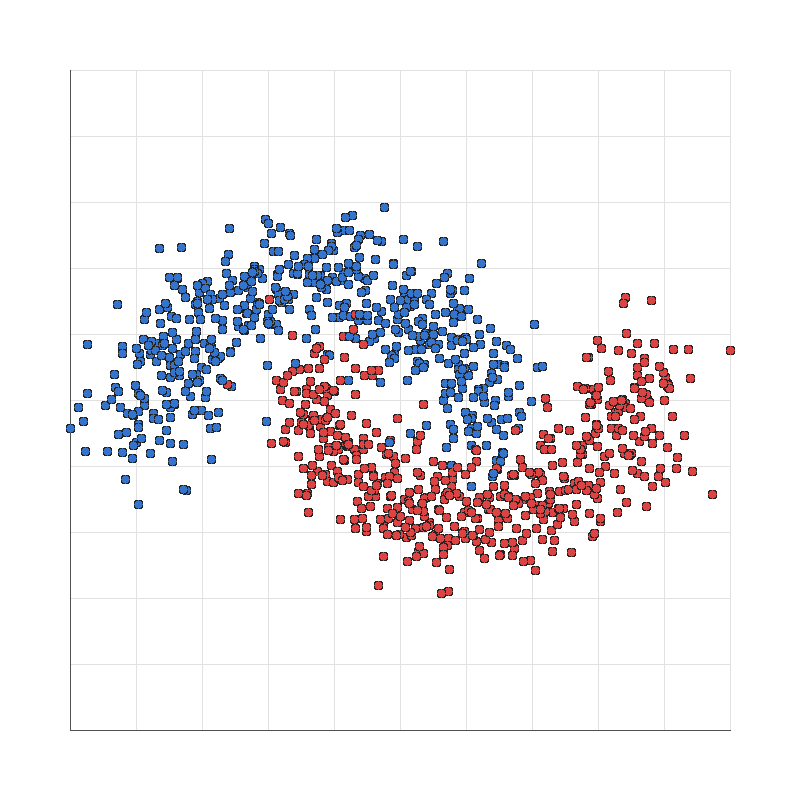
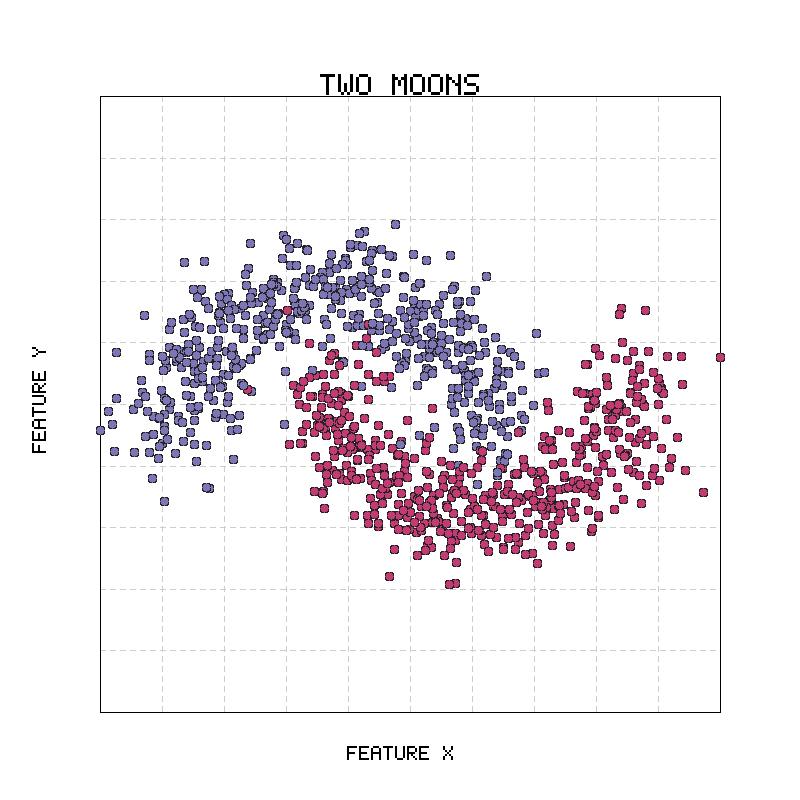
Align two moons plot styling

diff --git a/problems/medium/generate_two_moons.py b/problems/medium/generate_two_moons.py
@@ -82,9 +82,72 @@ def write_png(path, pixels, width, height):
     path.write_bytes(data)
 
 
+FONT = {
+    " ": ["00000", "00000", "00000", "00000", "00000", "00000", "00000"],
+    "-": ["00000", "00000", "00000", "11110", "00000", "00000", "00000"],
+    ".": ["00000", "00000", "00000", "00000", "00000", "01100", "01100"],
+    "0": ["01110", "10001", "10011", "10101", "11001", "10001", "01110"],
+    "1": ["00100", "01100", "00100", "00100", "00100", "00100", "01110"],
+    "2": ["01110", "10001", "00001", "00010", "00100", "01000", "11111"],
+    "3": ["11110", "00001", "00001", "01110", "00001", "00001", "11110"],
+    "4": ["00010", "00110", "01010", "10010", "11111", "00010", "00010"],
+    "5": ["11111", "10000", "10000", "11110", "00001", "00001", "11110"],
+    "6": ["01110", "10000", "10000", "11110", "10001", "10001", "01110"],
+    "7": ["11111", "00001", "00010", "00100", "01000", "01000", "01000"],
+    "8": ["01110", "10001", "10001", "01110", "10001", "10001", "01110"],
+    "9": ["01110", "10001", "10001", "01111", "00001", "00001", "01110"],
+    "A": ["01110", "10001", "10001", "11111", "10001", "10001", "10001"],
+    "C": ["01110", "10001", "10000", "10000", "10000", "10001", "01110"],
+    "E": ["11111", "10000", "10000", "11110", "10000", "10000", "11111"],
+    "F": ["11111", "10000", "10000", "11110", "10000", "10000", "10000"],
+    "M": ["10001", "11011", "10101", "10101", "10001", "10001", "10001"],
+    "N": ["10001", "11001", "10101", "10011", "10001", "10001", "10001"],
+    "O": ["01110", "10001", "10001", "10001", "10001", "10001", "01110"],
+    "R": ["11110", "10001", "10001", "11110", "10100", "10010", "10001"],
+    "S": ["01111", "10000", "10000", "01110", "00001", "00001", "11110"],
+    "T": ["11111", "00100", "00100", "00100", "00100", "00100", "00100"],
+    "U": ["10001", "10001", "10001", "10001", "10001", "10001", "01110"],
+    "W": ["10001", "10001", "10001", "10101", "10101", "10101", "01010"],
+    "X": ["10001", "10001", "01010", "00100", "01010", "10001", "10001"],
+    "Y": ["10001", "10001", "01010", "00100", "00100", "00100", "00100"],
+}
+
+
+def text_width(text, scale):
+    return max(0, (len(text) * 6 - 1) * scale)
+
+
 def save_plot(path, points, width=800, height=800):
+    try:
+        import matplotlib.pyplot as plt
+    except ModuleNotFoundError:
+        save_basic_plot(path, points, width, height)
+        return
+
+    plt.figure(figsize=(8, 8))
+    plt.scatter(
+        [point[0] for point in points],
+        [point[1] for point in points],
+        c=[point[2] for point in points],
+        cmap="Spectral",
+        edgecolors="k",
+        alpha=0.7,
+    )
+    plt.title("Two Moons")
+    plt.xlabel("Feature X")
+    plt.ylabel("Feature Y")
+    plt.axis("equal")
+    plt.grid(True, linestyle="--", alpha=0.6)
+    plt.savefig(path)
+    plt.close()
+
+
+def save_basic_plot(path, points, width=800, height=800):
     pixels = bytearray([255, 255, 255] * width * height)
-    padding = 70
+    left = 100
+    right = 80
+    top = 96
+    bottom = 88
     xs = [point[0] for point in points]
     ys = [point[1] for point in points]
     min_x, max_x = min(xs), max(xs)
@@ -94,11 +157,46 @@ def save_plot(path, points, width=800, height=800):
     cy = (min_y + max_y) / 2
     min_x, max_x = cx - span / 2, cx + span / 2
     min_y, max_y = cy - span / 2, cy + span / 2
+    plot_width = width - left - right
+    plot_height = height - top - bottom
 
     def set_pixel(px, py, color):
         if 0 <= px < width and 0 <= py < height:
             offset = (py * width + px) * 3
             pixels[offset : offset + 3] = bytes(color)
+
+    def draw_text(x, y, text, color=(0, 0, 0), scale=2):
+        cursor_x = x
+        for char in text.upper():
+            pattern = FONT.get(char, FONT[" "])
+            for row_index, row in enumerate(pattern):
+                for col_index, value in enumerate(row):
+                    if value == "1":
+                        for sy in range(scale):
+                            for sx in range(scale):
+                                set_pixel(
+                                    cursor_x + col_index * scale + sx,
+                                    y + row_index * scale + sy,
+                                    color,
+                                )
+            cursor_x += 6 * scale
+
+    def draw_text_rotated_left(x, y, text, color=(0, 0, 0), scale=2):
+        total_width = text_width(text, scale)
+        cursor_units = 0
+        for char in text.upper():
+            pattern = FONT.get(char, FONT[" "])
+            for row_index, row in enumerate(pattern):
+                for col_index, value in enumerate(row):
+                    if value == "1":
+                        unit_x = cursor_units + col_index
+                        unit_y = row_index
+                        for sy in range(scale):
+                            for sx in range(scale):
+                                source_x = unit_x * scale + sx
+                                source_y = unit_y * scale + sy
+                                set_pixel(x + source_y, y + total_width - 1 - source_x, color)
+            cursor_units += 6
 
     def draw_line(x1, y1, x2, y2, color):
         dx = abs(x2 - x1)
@@ -119,21 +217,44 @@ def save_plot(path, points, width=800, height=800):
                 err += dx
                 y1 += sy
 
+    def draw_dashed_line(x1, y1, x2, y2, color, dash=6, gap=4):
+        dx = x2 - x1
+        dy = y2 - y1
+        steps = max(abs(dx), abs(dy))
+        if steps == 0:
+            set_pixel(x1, y1, color)
+            return
+
+        for step in range(steps + 1):
+            if step % (dash + gap) < dash:
+                px = round(x1 + dx * step / steps)
+                py = round(y1 + dy * step / steps)
+                set_pixel(px, py, color)
+
     def to_pixel(x, y):
-        px = padding + round((x - min_x) / (max_x - min_x) * (width - 2 * padding))
-        py = height - padding - round((y - min_y) / (max_y - min_y) * (height - 2 * padding))
+        px = left + round((x - min_x) / (max_x - min_x) * plot_width)
+        py = height - bottom - round((y - min_y) / (max_y - min_y) * plot_height)
         return px, py
 
     for step in range(11):
-        gx = padding + round(step / 10 * (width - 2 * padding))
-        gy = padding + round(step / 10 * (height - 2 * padding))
-        draw_line(gx, padding, gx, height - padding, (225, 225, 225))
-        draw_line(padding, gy, width - padding, gy, (225, 225, 225))
+        gx = left + round(step / 10 * plot_width)
+        gy = top + round(step / 10 * plot_height)
+        draw_dashed_line(gx, top, gx, height - bottom, (205, 205, 205))
+        draw_dashed_line(left, gy, width - right, gy, (205, 205, 205))
 
-    draw_line(padding, padding, padding, height - padding, (80, 80, 80))
-    draw_line(padding, height - padding, width - padding, height - padding, (80, 80, 80))
+    draw_line(left, top, width - right, top, (0, 0, 0))
+    draw_line(left, height - bottom, width - right, height - bottom, (0, 0, 0))
+    draw_line(left, top, left, height - bottom, (0, 0, 0))
+    draw_line(width - right, top, width - right, height - bottom, (0, 0, 0))
 
-    colors = {0: (52, 116, 204), 1: (220, 67, 67)}
+    title = "Two Moons"
+    x_label = "Feature X"
+    y_label = "Feature Y"
+    draw_text((width - text_width(title, 3)) // 2, 74, title, scale=3)
+    draw_text((width - text_width(x_label, 2)) // 2, 746, x_label, scale=2)
+    draw_text_rotated_left(32, (height - text_width(y_label, 2)) // 2, y_label, scale=2)
+
+    colors = {0: (124, 117, 182), 1: (194, 59, 114)}
     for x, y, label in points:
         px, py = to_pixel(x, y)
         for dy in range(-4, 5):